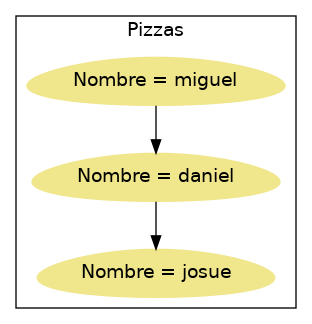
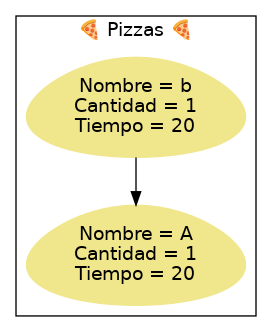
Valor de tiempo DONE y cambios en main

diff --git a/Main.py b/Main.py
@@ -1,15 +1,97 @@
 from colorama import Fore, Style
 from Queue import Queue
 
+def Menu():
+    print(Style.BRIGHT, Fore.LIGHTMAGENTA_EX)
+    print('|---    **********************************   ---|',end='')
+    print(Fore.LIGHTYELLOW_EX,Style.NORMAL)
+    print('|---'+Fore.LIGHTCYAN_EX+Style.BRIGHT+'         🍕[ Josue\'s Pizzas ]🍕         '+Fore.LIGHTYELLOW_EX,Style.NORMAL+'---|')
+    print('|---    1) Generar pedido                    ---|')
+    print('|---    2) Enviar al horno                   ---|')
+    print('|---    3) Ver pizzas pendientes             ---|')
+    print('|---    4) Datos de desarrollador            ---|')
+    print('|---    5) Salir                             ---|',Fore.LIGHTMAGENTA_EX,Style.BRIGHT)
+    print('|---    **********************************   ---|')
+
+def Menu2():
+    print(Style.NORMAL, Fore.LIGHTMAGENTA_EX)
+    print('|---    **********************************   ---|',end='')
+    print(Fore.LIGHTYELLOW_EX,Style.NORMAL)
+    print('|---    1) Ingresar nombre de cliente        ---|')
+    print('|---    2) Seleccionar ingredientes          ---|')
+    print('|---    3) Seleccionar cantidad de pizzas    ---|')
+    print('|---    4) Regresar                          ---|',Fore.LIGHTMAGENTA_EX,Style.NORMAL)
+    print('|---    **********************************   ---|')
+
+def Ingredientes():
+    print(Fore.LIGHTWHITE_EX+'\n|-----------------------------------------------|')
+    print(Fore.LIGHTBLUE_EX+Style.BRIGHT+'|-------[🍴 Ingredientes de la casa 🍴]---------|'+Fore.LIGHTWHITE_EX)
+    print('|-----------------------------------------------|')
+    print('|---     Pepperoni -----|-----   3 min       ---|')
+    print('|---     Salchicha -----|-----   4 min       ---|')
+    print('|---     Carne     -----|-----   10 min      ---|')
+    print('|---     Queso     -----|-----   5 min       ---|')
+    print('|---     Piña      -----|-----   2 min       ---|')
+    print('|-----------------------------------------------|')
 
 queue = Queue()
-print('WTDFFFF')
-queue.Enqueue('josue',2)
-queue.Enqueue('daniel',2)
-queue.Enqueue('miguel',2)
-queue.len()
-queue.Front()
-queue.Rear()
-queue.isEmpty()
-queue.Report()
-queue.crearReporte()
+Menu()
+aux=input(Fore.GREEN+'Ingrese una opcion: ')
+time=0
+while(aux != '5'):
+    if aux == '1':
+        Menu2()
+        op = input(Fore.LIGHTBLACK_EX+Style.BRIGHT+'Eliga una opcion: ')
+        while(op != '4'):
+            if op == '1':
+                name=''
+                name = input(Fore.GREEN+Style.BRIGHT+'Ingrese nombre: ')
+                Menu2()
+                op = input(Fore.LIGHTBLACK_EX+'Eliga una opcion: ')
+            elif op == '2':
+                Ingredientes()
+                op2 = input(Fore.GREEN+'¿Cuantos ingredientes desea?: ')
+                time = 0
+                for i in range(int(op2)):
+                    ingredientes = input(Fore.GREEN+'Ingrese ingrediente '+str(i+1)+': '+Fore.LIGHTWHITE_EX)
+                    if ingredientes.lower() == 'pepperoni':
+                        time +=3
+                    elif ingredientes.lower() == 'salchicha':
+                        time +=4
+                    elif ingredientes.lower() == 'carne':
+                        time +=10
+                    elif ingredientes.lower() == 'queso':
+                        time +=5
+                    elif ingredientes.lower() == 'piña':
+                        time +=2
+    
+                Menu2()
+                op = input(Fore.LIGHTBLACK_EX+'Eliga una opcion: ')
+            elif op == '3':
+                cant = input(Fore.GREEN+'Ingrese cantidad de pizzas: ')
+                time = time * int(cant) 
+                Menu2()
+                op = input(Fore.LIGHTBLACK_EX+'Eliga una opcion: ')
+            else:
+                print(Fore.LIGHTRED_EX+Style.BRIGHT+'Ingrese un comando valido')
+                Menu2()
+                op = input(Fore.LIGHTBLACK_EX+'Eliga una opcion: ')
+        Menu()
+        aux=input(Fore.GREEN+'Ingrese una opcion: ')
+    elif aux == '2':
+        queue.Enqueue(name,cant,time)
+        queue.Front()
+        queue.Rear()
+        Menu()
+        aux=input(Fore.GREEN+'Ingrese una opcion: ') 
+    elif aux == '3':
+        queue.Report()
+        queue.crearReporte()
+        Menu()
+        aux=input(Fore.GREEN+'Ingrese una opcion: ') 
+    else:
+        print(Fore.GREEN,'')
+        aux=input('Ingrese una opcion: ')
+exit
+
+

diff --git a/Queue.py b/Queue.py
@@ -1,5 +1,4 @@
-from tkinter import N
-from Node import Pizza
+from Pizza import Pizza
 from graphviz import Source
 # pizza = Pizza()
 
@@ -9,16 +8,18 @@ class Queue:
         self.first = None
         self.last = None
 
-    def Enqueue(self,name,total):
+    def Enqueue(self,name,total,time):
         if self.first is None:
-            self.first = self.last = Pizza(name,total)
+            self.first = self.last = Pizza(name,total,time)
+            self.first.time_real = time
             self.size +=1
-            print('agregado ',self.first.name)
+            print('Pizza de ',self.first.name.upper(),'en el horno 🔥', 'sale en ⌚',time,'min!')
         else:
-            self.last.next = Pizza(name,total)
+            self.last.time_real +=  time
+            self.last.next = Pizza(name,total,self.last.time_real)
             self.size +=1
-            print('agregado ',self.last.next.name)
             self.last = self.last.next
+            print('Pizza de ',self.last.name.upper(),'cocinandose 🔥', 'sale en ⌚',self.last.time_real,'min!')
 
     def Dequeue(self):
         if self.first is None:
@@ -54,14 +55,16 @@ class Queue:
         text=""
         text=""
         text+="rankdir=LR; \n node[shape=egg,style=filled,color=khaki,fontname=\"Century Gothic\"]; graph [fontname = \"Century Gothic\"];\n"
-        text+="labelloc = \"t;\"label = \"Pizzas\";\n"
+        text+="labelloc = \"t;\"label = \"🍕 Pizzas 🍕\";\n"
         
         while aux:
-            text+=""+str(aux.name)+"[dir=both label = \"Nombre = "+str(aux.name)+"\"]"
+            text+=""+str(aux.name)+"[dir=both label = \"Nombre = "+str(aux.name.upper())+"\\nCantidad = "+str(aux.total)+"\\nTiempo = "+str(aux.time_real)+"\"]"
+            if self.first == self.last:
+                break
             text+=""+str(aux.next.name)+"-> "+str(aux.name)+"\n"
             aux=aux.next
             if aux!=self.first:    
-                text+=""+str(aux.name)+"[dir=both label = \"Nombre = "+str(aux.name)+"\"]"
+                text+=""+str(aux.name)+"[dir=both label = \"Nombre = "+str(aux.name)+"\\nCantidad = "+str(aux.total)+"\\nTiempo = "+str(aux.time_real)+"\"]"
             if aux==self.last:
                 text+=""+str(aux.name)+"\n"
                 break

diff --git a/Pizza.py b/Pizza.py
@@ -1,6 +1,6 @@
 class Pizza:
-    def __init__(self,name,total):
+    def __init__(self,name,total,time_real):
         self.name = name
         self.total = total
+        self.time_real = time_real
         self.next = None
-        # self.ingrediente = ingrediente
